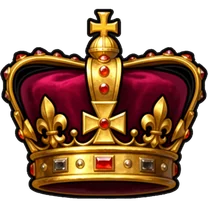
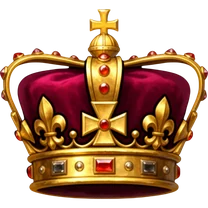
Re-cut role emblems, GM sign, defeat emblem and card back with Scenario background removal

diff --git a/web/src/diplomacie/KartaRole.tsx b/web/src/diplomacie/KartaRole.tsx
@@ -45,7 +45,7 @@ export function verzeZapasu(data: DiploData, d: DiploZapas | undefined, zapas: P
  * ho v `Zakryti` obaluje (karta je tlačítkem sama).
  */
 export function RubKarty() {
-  return <img className="rub-karty" src={RUB_KARTY} alt="" width={600} height={362} />;
+  return <img className="rub-karty" src={RUB_KARTY} alt="" width={600} height={365} />;
 }
 
 /**

diff --git a/src/shared/verze.ts b/src/shared/verze.ts
@@ -7,4 +7,4 @@
  * ze které pokus vyšel, za ní vlastní verzování pokusu. Pravidla jsou
  * v `scripts/verze.ts` a v `docs/nasazeni-jouki-cz.md` §2.1.
  */
-export const VERZE = "1.13.10-41.25";
+export const VERZE = "1.13.10-41.26";

diff --git a/docs/grafika.md b/docs/grafika.md
@@ -373,6 +373,8 @@ python nastroje/grafika/export.py vyber/ram-mapy.png -o web/src/assets/diplomaci
 | `rub-karty.webp` | `rub-karty` var. 03 | 7973333685969451956 | 1152×768 | 600×362 |
 | `ram-mapy.webp` | `ram-mapy` var. 00, `devitidil.py --roh 112 --pas 96 --prah 20` | 2975078811603106970 | 1024×1024 | 320×320 (řez 112) |
 
+**4. 10. 2026 — pozadí přes Scenario.** Znaky rolí, GM, prohra a rub karty mají pozadí odstraněné přes Scenario (`scenario_bg.py` → `klic.py --alfa-ze-vstupu` → `export.py` se stejnými parametry jako výš), ne vlastní záplavou s prahem 12 — ta nechávala tmavý lem a žrala jemné hrany. Rub karty tím vyšel 600×365 (dřív 600×362). Ikonky 56×56 (`ikonka-*.webp`) jsou zmenšené z nových 208px znaků.
+
 Seedy vybraných variant jsou zapsané i v `diplomacie.json` (`seed`), takže
 nový běh dávky dá jako `_00` přesně to, co je na webu — čísla variant
 v tabulce platí pro původní nesemínkovaný běh (1. 10. 2026).
